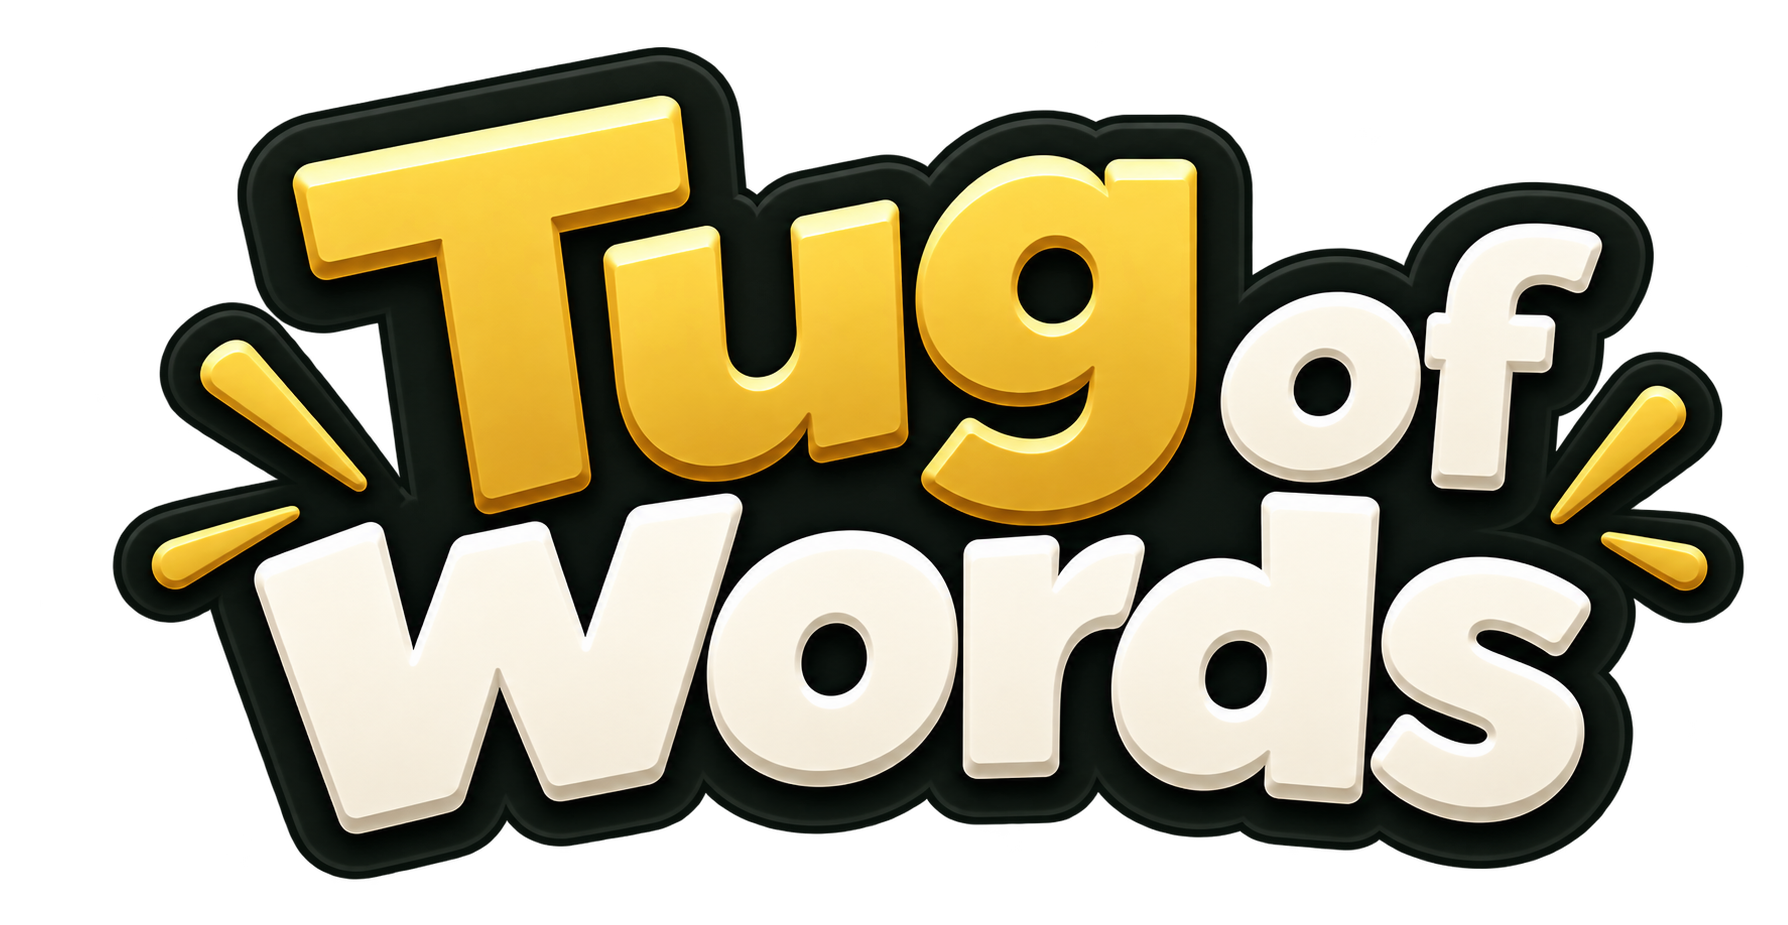
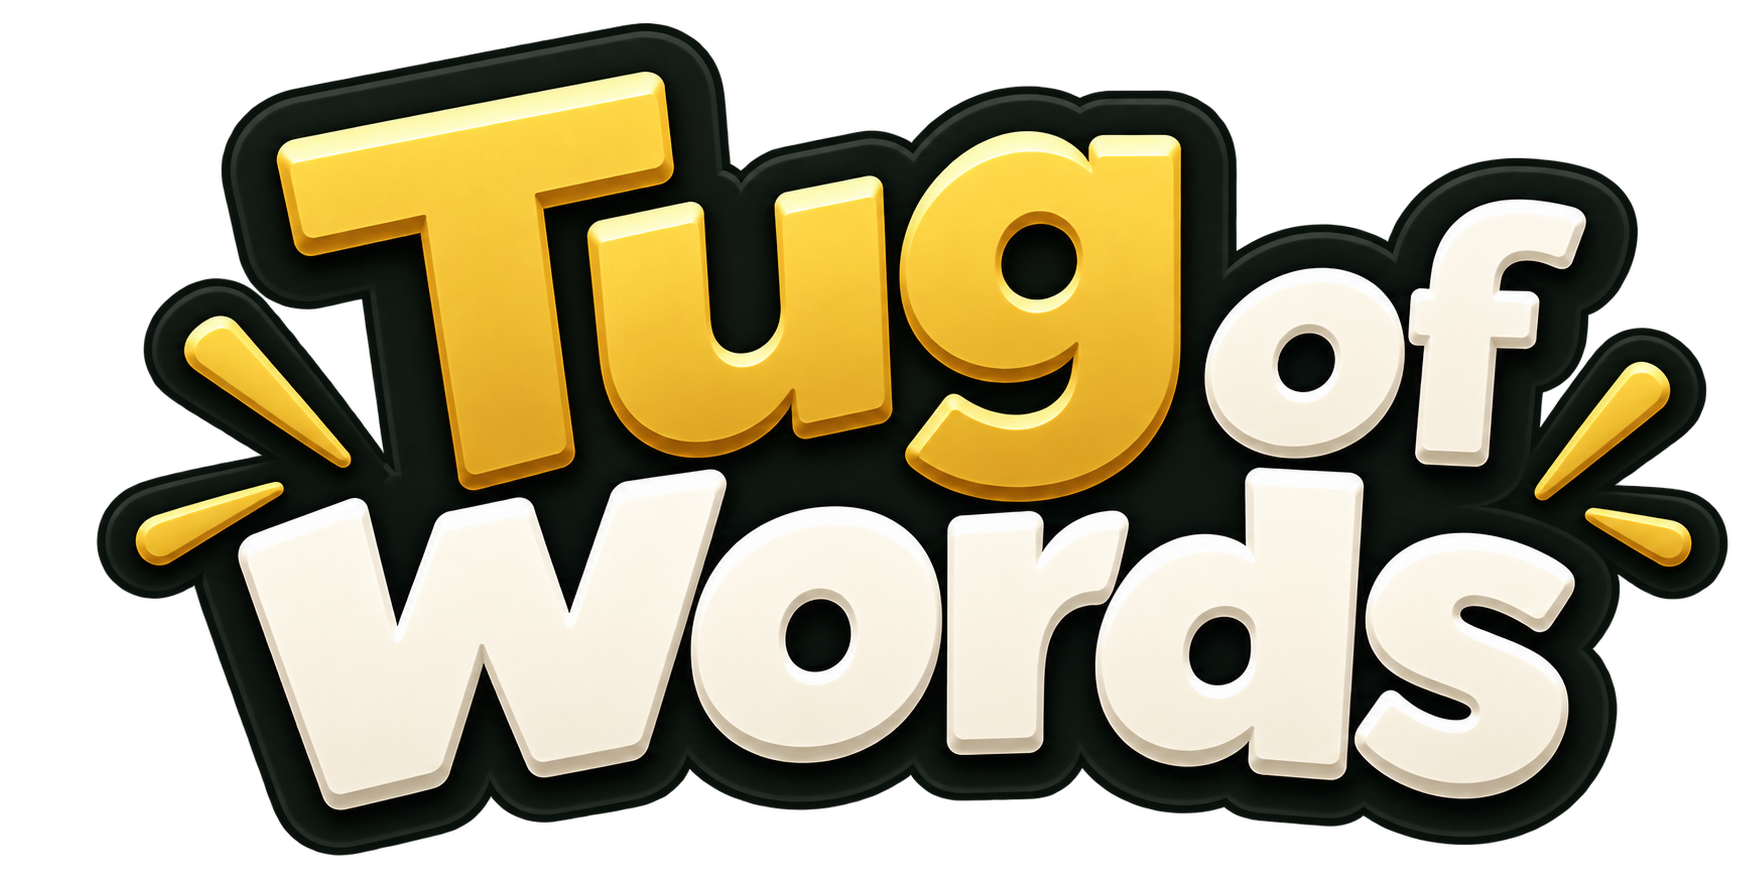
v0.7.1 Tighten Tug of Words home menu spacing
- Crop transparent padding from the Tug of Words wordmark asset\n- Reduce mobile home-screen gaps and padding to prevent unnecessary scroll\n- Use small viewport height on narrow screens for better mobile browser behavior

diff --git a/public/styles.css b/public/styles.css
@@ -1258,12 +1258,12 @@ body.tug-result-open::before {
 
 @media (max-width: 780px) {
   .shell {
-    padding: 12px;
+    padding: 8px 12px;
   }
 
   #menuView.view-active {
     grid-template-columns: 1fr;
-    gap: 22px;
+    gap: 14px;
     align-content: center;
   }
 
@@ -1278,7 +1278,7 @@ body.tug-result-open::before {
   }
 
   .brand-wordmark {
-    width: min(520px, 94vw);
+    width: min(500px, 92vw);
   }
 
   .menu-subtitle {
@@ -1529,11 +1529,11 @@ body.tug-result-open::before {
 
 @media (max-width: 430px) {
   .shell {
-    padding: 8px 10px;
+    padding: 4px 10px;
   }
 
   #menuView {
-    min-height: calc(100vh - 28px);
+    min-height: calc(100svh - 8px);
   }
 
   .brand-block h1 {
@@ -1542,15 +1542,16 @@ body.tug-result-open::before {
   }
 
   .brand-wordmark {
-    width: min(350px, 94vw);
+    width: min(330px, 90vw);
   }
 
   .menu-subtitle {
-    margin-top: 10px;
+    margin-top: 6px;
     font-size: clamp(1.12rem, 6vw, 1.45rem);
   }
 
   .lede {
+    margin-top: 8px;
     font-size: 0.94rem;
   }
 
